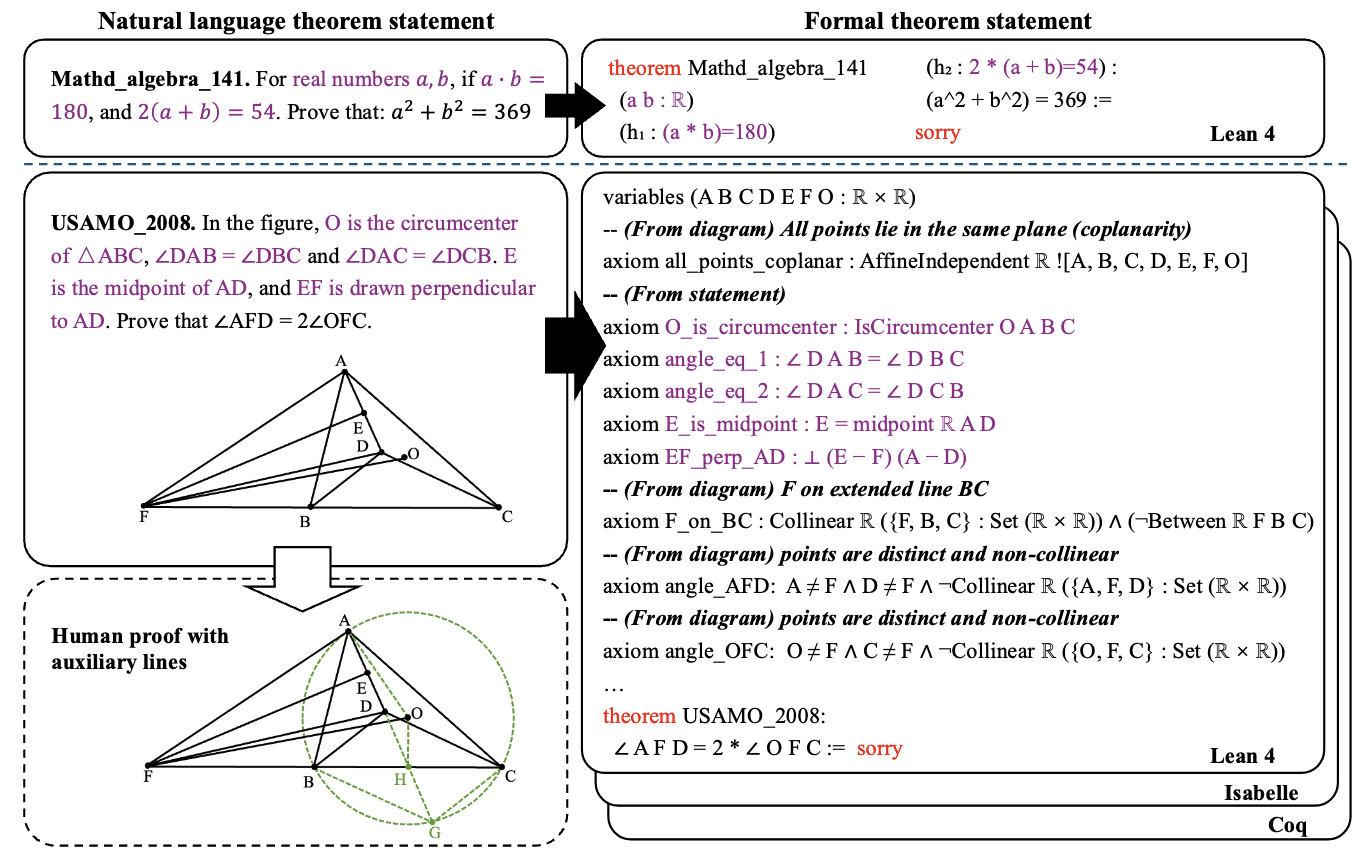
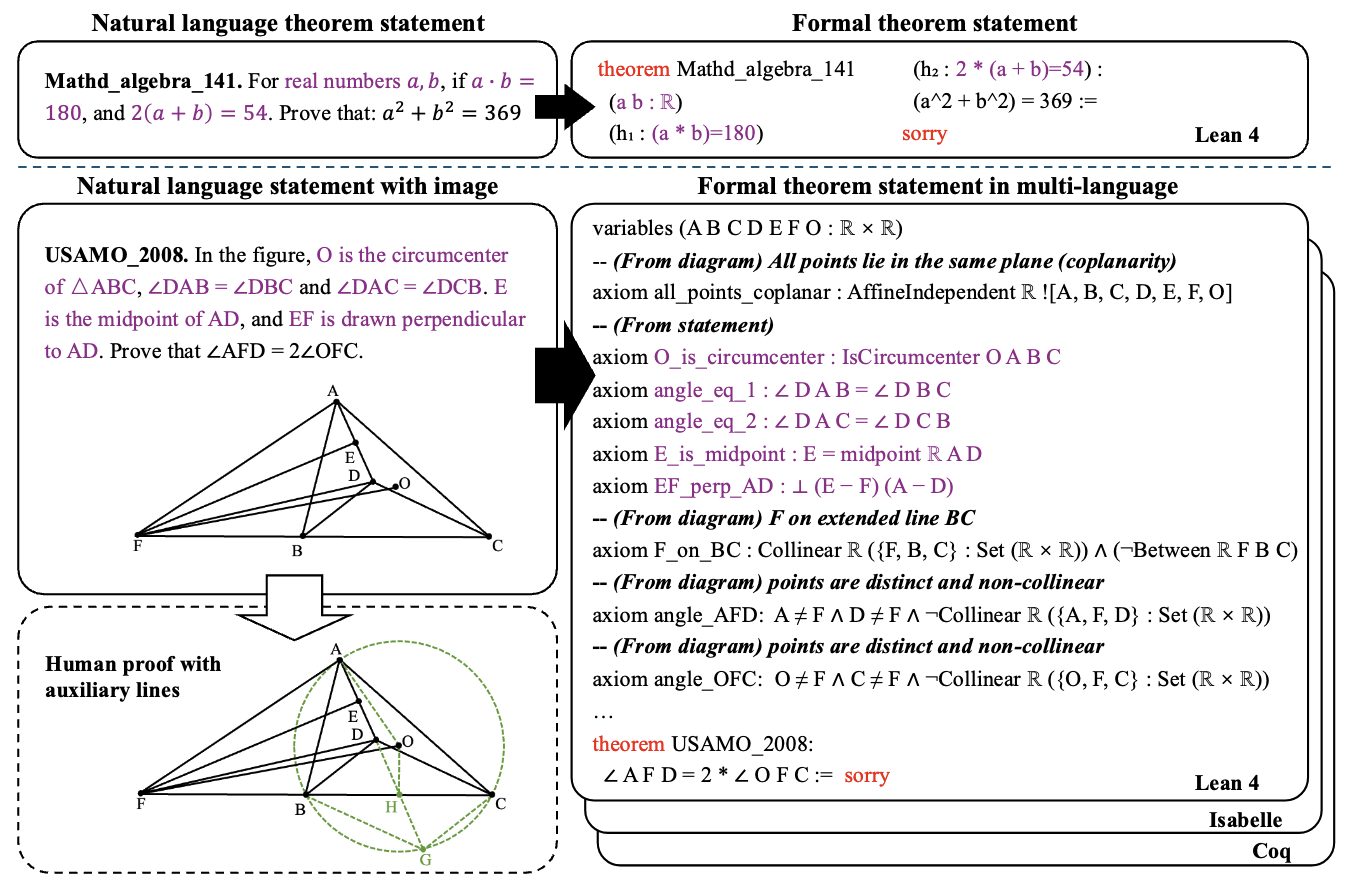
update

diff --git a/README.md b/README.md
@@ -1,5 +1,50 @@
+<div align="center">
+
+<img src="asset/MATP_icon.png" alt="icon" style=" height:95px;" />
+
 # MATP-BENCH: Can MLLM Be a Good Automated Theorem Prover for Multimodal Problems?
 
-![Overview of our Multimodal Automated Theorem Proving benchmark (MATP-Bench)](https://github.com/Zhitao-He/MATPBench/blob/main/asset/data_example.png)
+</div>
+
+<div align="center">
+<b><a href="https://scholar.google.com/citations?user=ULvoYXgAAAAJ&hl=zh-CN" target="_blank">Zhitao He</a><sup>1</sup> <a href="https://github.com/Zhitao-He/MMBoundary" target="_blank"> Zongwei Lyu </a><sup>1</sup> <a href="https://zhiyuan.fan/" target="_blank"> Dazhong Chen </a><sup>2</sup> <a href="https://lukahhcm.github.io/" target="_blank"> Dadi Guo </a><sup>1</sup> <a href="https://mayrfung.github.io/" target="_blank">Yi R. (May) Fung</a><sup>1</sup></b>
+
+
+<sup>1 </sup>HKUST &nbsp; <sup>2 </sup> CUHK (Shenzhen) &nbsp
+
+[![Project Page](https://img.shields.io/badge/MATP--Bench-Website-2D89EF?style=flat-square&logo=internet-explorer)](https://matpbench.github.io/)
+[![ArXiv](https://img.shields.io/badge/arXiv-2502.xxx-B31B1B.svg?logo=arxiv&logoColor=white)](https://arxiv.org/abs/xxx)
+[![Hugging Face](https://img.shields.io/badge/%F0%9F%A4%97-Hugging%20Face-blue)](https://huggingface.co/datasets/Zhitao-He/MATPBench)
+
+</div>
+
+<br>
+
+---
+
+## Introduction
+
+Numerous theorems, such as those in geometry, are often presented in multimodal forms (e.g., diagrams). Humans benefit from visual reasoning in such settings, using diagrams to gain intuition and guide the proof process. Modern Multimodal Large Language Models (MLLMs) have demonstrated remarkable capabilities in solving a wide range of mathematical problems. However, the potential of MLLMs as Automated Theorem Provers (ATPs), specifically in the multimodal domain, remains underexplored. In this paper, we introduce the **M** ultimodal **A**utomated **T** heorem **P** roving benchmark (**MATP-Bench**), a new Multimodal, Multi-level, and Multi-language benchmark designed to evaluate MLLMs in this role as multimodal automated theorem provers. MATP-BENCH consists of 1056 multimodal theorems drawn from high school, university, and competition-level mathematics. All these multimodal problems are accompanied by formalizations in Lean 4, Coq and Isabelle, thus making the benchmark compatible with a wide range of theorem-proving frameworks. MATP-BENCH requires models to integrate sophisticated visual understanding with mastery of a broad spectrum of mathematical knowledge and rigorous symbolic reasoning to generate formal proofs. We use MATP-BENCH to evaluate a variety of advanced multimodal language models. Existing methods can only solve a limited number of the MATP-BENCH problems, indicating that this benchmark poses an open challenge for research on automated theorem proving.
+
+---
+
+<div align="center">
+<h3> Differences between traditional ATP and MATP </h3>
+<img src= "asset/data_example.png" width=“90%" alt= “MATP”/>
+</div>
+
+We illustrate the differences between traditional **ATP and MATP** through examples from miniF2F (above) and MATPBench (below). Multimodal theorems consist of an image paired with a natural language theorem statement, which complement each other to convey complete theorem information. Furthermore, additional auxiliary constructions are often essential for their proof (as shown in the bottom left subfigure). In traditional ATP, theorem formalization relies solely on textual statements (we use `purple` to indicate premises derived from the original statement), whereas MATP requires the model to extract critical premises not explicitly expressed in the text by analyzing accompanying diagrams (see **_From diagram_** on the right). We provide formalized versions of all multimodal theorems in Lean4, Coq, and Isabelle.
+
+---
+
+<div align="center">
+<h3> Benchmark Comparison </h3>
+<img src= "asset/tab1.png" width=“90%" alt= "Benchmark Comparison"/>
+</div>
+
+MATP-BENCH is a Multimodal, Multi-level, and Multi-language benchmark designed to evaluate MLLMs as automated theorem provers. The problems in MATP-BENCH span three distinct educational stages—high school, university, and competitions—systematically covering a wide range of difficulty levels from elementary to advanced. we manually annotate the formal statements of each problem in three formal languages. Moreover, the multimodal theorems in MATP-BENCH are primarily centered around the domain of geometry, spanning plane geometry, 3D geometry, analytic geometry.
+
+
+
 
 
